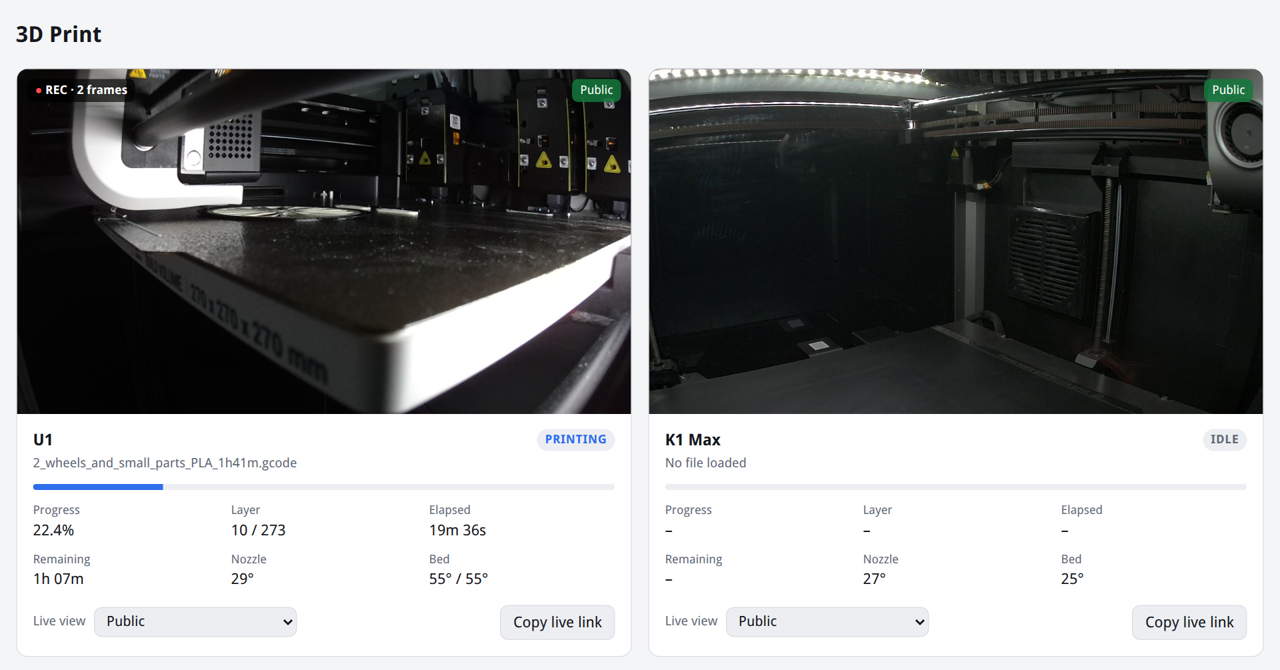
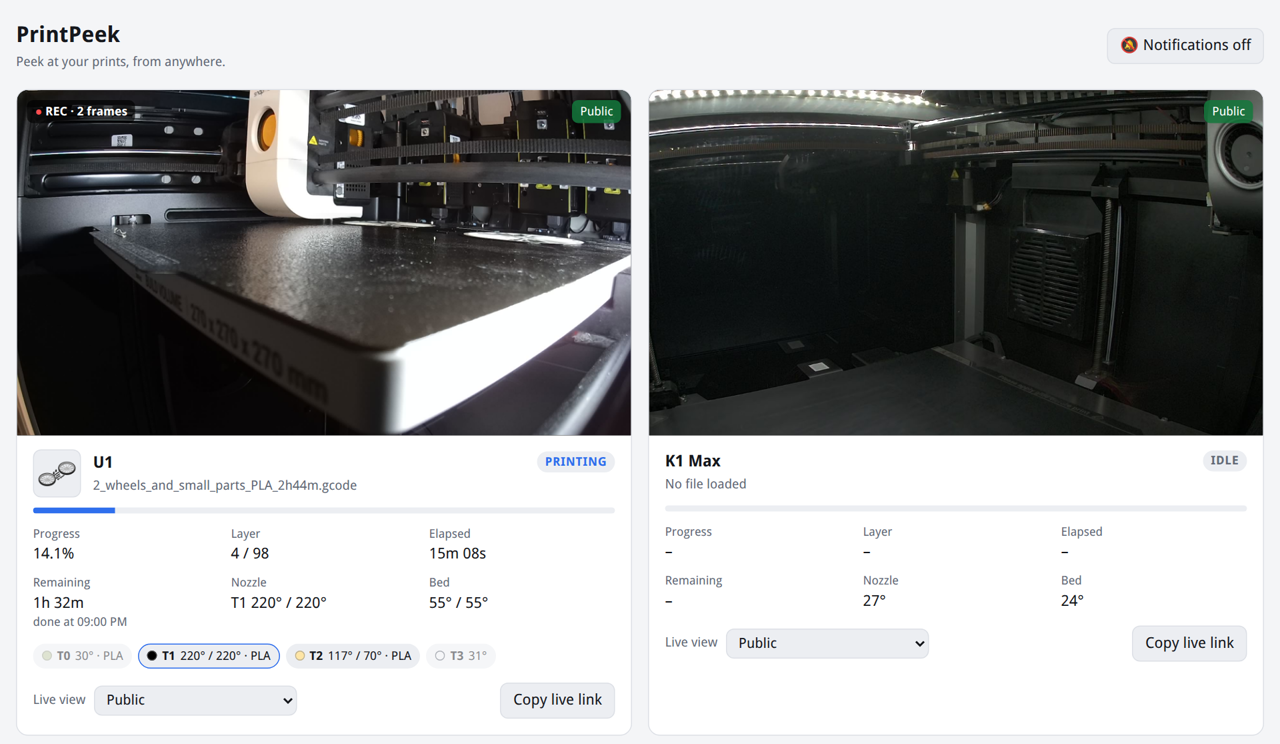
Rename to PrintPeek

diff --git a/app/static/index.html b/app/static/index.html
@@ -3,19 +3,22 @@
 <head>
   <meta charset="utf-8">
   <meta name="viewport" content="width=device-width, initial-scale=1">
-  <title>3D Print</title>
+  <title>PrintPeek</title>
   <link rel="manifest" href="/manifest.webmanifest">
   <link rel="icon" href="/static/icons/icon.svg" type="image/svg+xml">
   <link rel="icon" href="/static/icons/favicon-32.png" sizes="32x32" type="image/png">
   <link rel="apple-touch-icon" href="/static/icons/apple-touch-icon.png">
-  <meta name="apple-mobile-web-app-title" content="Printers">
+  <meta name="apple-mobile-web-app-title" content="PrintPeek">
   <meta name="theme-color" content="#f4f5f7" media="(prefers-color-scheme: light)">
   <meta name="theme-color" content="#0f1115" media="(prefers-color-scheme: dark)">
   <link rel="stylesheet" href="/static/style.css">
 </head>
 <body>
   <header class="top">
-    <h1>3D Print</h1>
+    <div class="brand">
+      <h1>PrintPeek</h1>
+      <p class="tagline">Peek at your prints, from anywhere.</p>
+    </div>
     <div class="top-actions">
       <button id="notify" hidden></button>
       <a id="login" href="/login" hidden>Log in</a>

diff --git a/app/static/share.html b/app/static/share.html
@@ -4,12 +4,12 @@
   <meta charset="utf-8">
   <meta name="viewport" content="width=device-width, initial-scale=1">
   <meta name="robots" content="noindex">
-  <title>Print Timelapse</title>
+  <title>Timelapse · PrintPeek</title>
   <link rel="manifest" href="/manifest.webmanifest">
   <link rel="icon" href="/static/icons/icon.svg" type="image/svg+xml">
   <link rel="icon" href="/static/icons/favicon-32.png" sizes="32x32" type="image/png">
   <link rel="apple-touch-icon" href="/static/icons/apple-touch-icon.png">
-  <meta name="apple-mobile-web-app-title" content="Printers">
+  <meta name="apple-mobile-web-app-title" content="PrintPeek">
   <meta name="theme-color" content="#f4f5f7" media="(prefers-color-scheme: light)">
   <meta name="theme-color" content="#0f1115" media="(prefers-color-scheme: dark)">
   <link rel="stylesheet" href="/static/style.css">

diff --git a/app/static/sw.js b/app/static/sw.js
@@ -2,7 +2,7 @@
 // and shows push notifications.
 // Only page loads and /static/ files go through here, always from the network first. The API,
 // camera streams and videos are never touched or cached.
-const CACHE = "printer-monitor-v1";
+const CACHE = "printpeek-v1";
 const OFFLINE = "/static/offline.html";
 
 self.addEventListener("install", (event) => {
@@ -33,7 +33,7 @@ self.addEventListener("fetch", (event) => {
 
 self.addEventListener("push", (event) => {
   const msg = event.data ? event.data.json() : {};
-  event.waitUntil(self.registration.showNotification(msg.title || "Printer monitor", {
+  event.waitUntil(self.registration.showNotification(msg.title || "PrintPeek", {
     body: msg.body || "",
     tag: msg.tag || undefined,
     renotify: Boolean(msg.tag), // a newer message about the same printer replaces the old one, and still buzzes

diff --git a/app/static/login.html b/app/static/login.html
@@ -4,12 +4,12 @@
   <meta charset="utf-8">
   <meta name="viewport" content="width=device-width, initial-scale=1">
   <meta name="robots" content="noindex">
-  <title>Log In</title>
+  <title>Log in · PrintPeek</title>
   <link rel="manifest" href="/manifest.webmanifest">
   <link rel="icon" href="/static/icons/icon.svg" type="image/svg+xml">
   <link rel="icon" href="/static/icons/favicon-32.png" sizes="32x32" type="image/png">
   <link rel="apple-touch-icon" href="/static/icons/apple-touch-icon.png">
-  <meta name="apple-mobile-web-app-title" content="Printers">
+  <meta name="apple-mobile-web-app-title" content="PrintPeek">
   <meta name="theme-color" content="#f4f5f7" media="(prefers-color-scheme: light)">
   <meta name="theme-color" content="#0f1115" media="(prefers-color-scheme: dark)">
   <link rel="stylesheet" href="/static/style.css">

diff --git a/app/static/watch.html b/app/static/watch.html
@@ -3,12 +3,12 @@
 <head>
   <meta charset="utf-8">
   <meta name="viewport" content="width=device-width, initial-scale=1">
-  <title>Live Print</title>
+  <title>Live · PrintPeek</title>
   <link rel="manifest" href="/manifest.webmanifest">
   <link rel="icon" href="/static/icons/icon.svg" type="image/svg+xml">
   <link rel="icon" href="/static/icons/favicon-32.png" sizes="32x32" type="image/png">
   <link rel="apple-touch-icon" href="/static/icons/apple-touch-icon.png">
-  <meta name="apple-mobile-web-app-title" content="Printers">
+  <meta name="apple-mobile-web-app-title" content="PrintPeek">
   <meta name="theme-color" content="#f4f5f7" media="(prefers-color-scheme: light)">
   <meta name="theme-color" content="#0f1115" media="(prefers-color-scheme: dark)">
   <link rel="stylesheet" href="/static/style.css">

diff --git a/app/static/style.css b/app/static/style.css
@@ -51,6 +51,7 @@ header.top {
   display: flex; align-items: center; justify-content: space-between; gap: 12px;
 }
 h1 { font-size: 22px; margin: 0; }
+.tagline { margin: 2px 0 0; font-size: 13px; color: var(--muted); }
 .top-actions { display: flex; gap: 8px; align-items: center; flex-wrap: wrap; justify-content: flex-end; }
 h2 { font-size: 17px; margin: 0; }
 h3 { font-size: 16px; margin: 0; }

diff --git a/app/main.py b/app/main.py
@@ -127,7 +127,7 @@ async def lifespan(_app: FastAPI):
     await _app.state.stream_client.aclose()
 
 
-app = FastAPI(title="3D print", lifespan=lifespan, docs_url=None, redoc_url=None, openapi_url=None)
+app = FastAPI(title="PrintPeek", lifespan=lifespan, docs_url=None, redoc_url=None, openapi_url=None)
 app.add_middleware(AdminSession)
 app.mount("/static", StaticFiles(directory=STATIC), name="static")
 app.mount("/media", StaticFiles(directory=MEDIA), name="media")

diff --git a/app/config.py b/app/config.py
@@ -104,5 +104,5 @@ def load_config(path: str | os.PathLike) -> Config:
         max_viewers=int(raw.get("max_viewers", 10)),
         auth=AuthConfig(**auth) if auth else None,
         h264_options=h264_options,
-        push_contact=str(raw.get("push_contact") or "mailto:printer-monitor@example.com"),
+        push_contact=str(raw.get("push_contact") or "mailto:printpeek@example.com"),
     )

diff --git a/README.md b/README.md
@@ -1,4 +1,6 @@
-# Printer monitor
+# PrintPeek
+
+**Peek at your prints, from anywhere.**
 
 A small web app that shows all my Klipper printers on one page, with the live camera, and
 records a timelapse of every print. It runs on a home server in Docker and only talks to
@@ -32,8 +34,8 @@ Moonraker (Mainsail or Fluidd).
 You need Docker with Compose.
 
 ```sh
-git clone https://github.com/<you>/printer-monitor.git
-cd printer-monitor
+git clone https://github.com/<you>/printpeek.git
+cd printpeek
 cp config/config.example.yaml config/config.yaml
 # edit config/config.yaml: add your printers and set a username/password
 docker compose up -d --build
